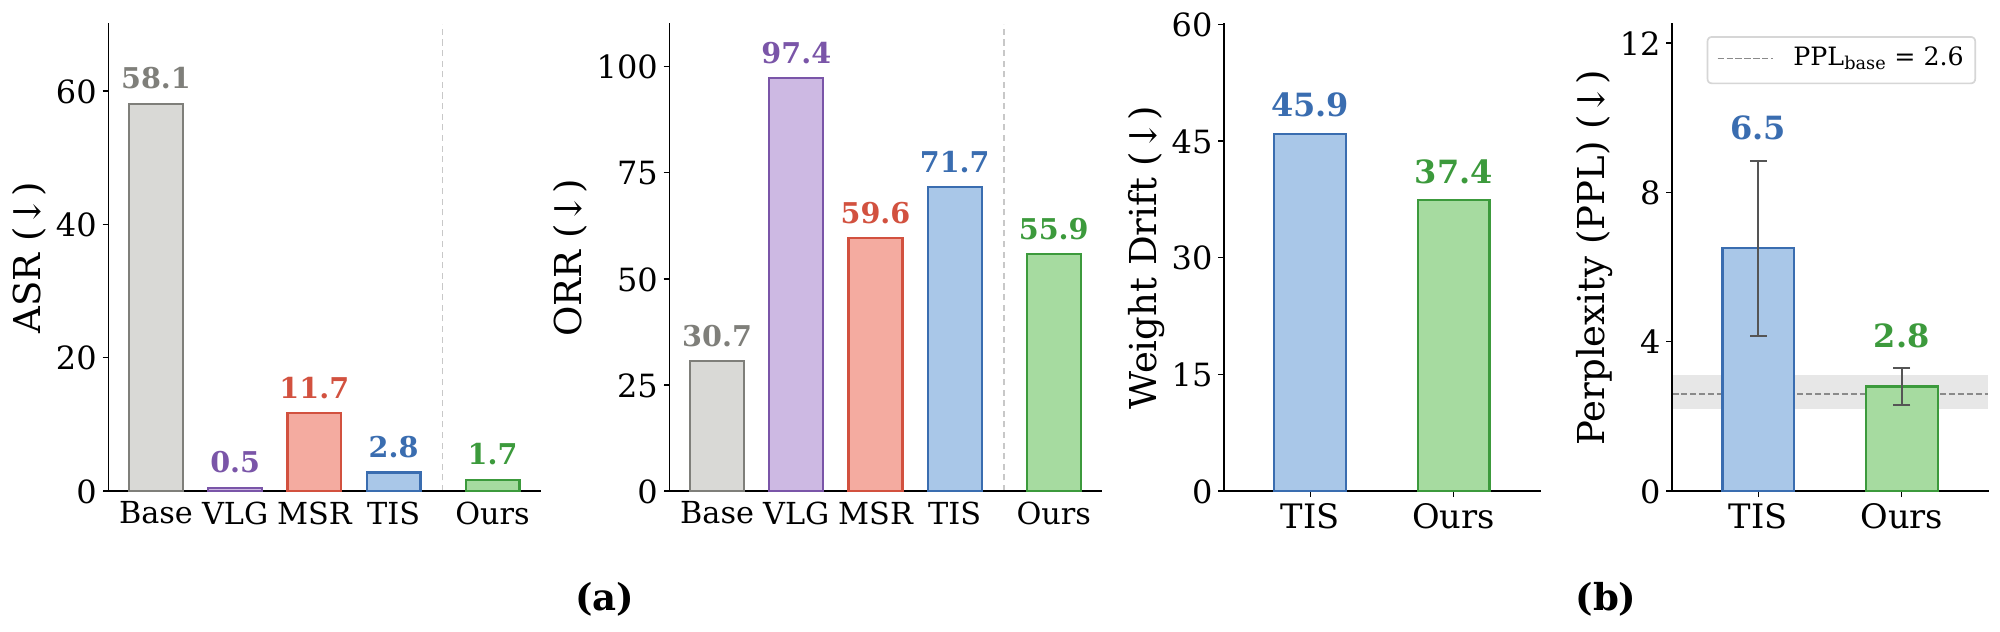
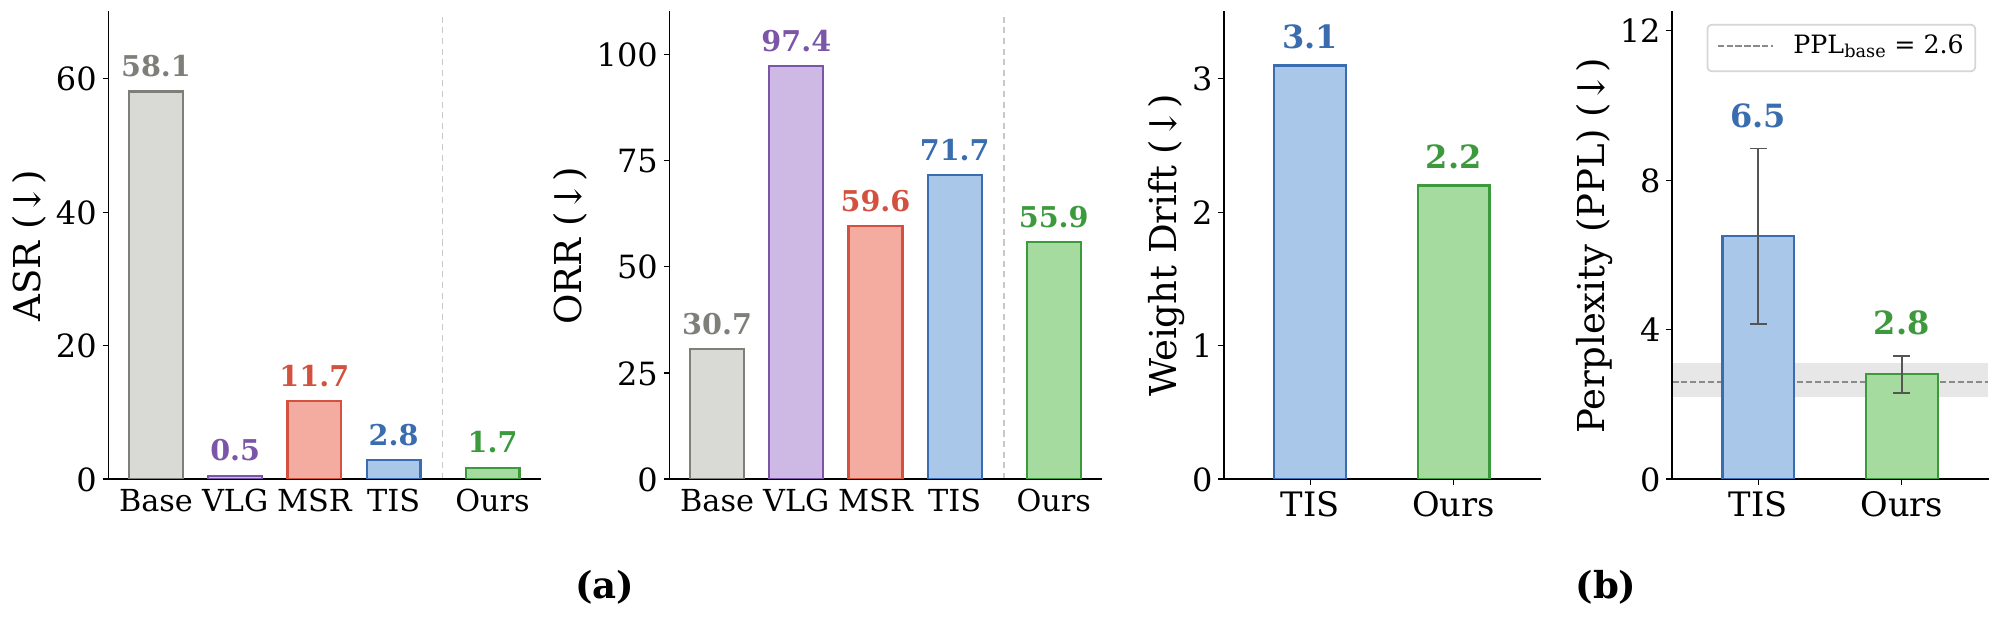
Update Figure 2 with the revised weight-drift values
Use figure2_..._v7 from the updated camera-ready (weight drift: TIS 3.1,
SGSA 2.2) and update the figure's alt text to match.

diff --git a/index.html b/index.html
@@ -310,7 +310,7 @@
         </div>
 
         <figure class="publication-figure">
-          <img src="./static/images/overrefusal-drift.png" alt="Bar charts on LLaVA-CoT. (a) ASR: base 58.1, VLGuard 0.5, MSR-Align 11.7, TIS 2.8, SGSA 1.7. ORR: base 30.7, VLGuard 97.4, MSR-Align 59.6, TIS 71.7, SGSA 55.9. (b) Weight drift from the base model: TIS 45.9, SGSA 37.4. Perplexity of outputs under the base model: TIS 6.5, SGSA 2.8, base 2.6.">
+          <img src="./static/images/overrefusal-drift.png" alt="Bar charts on LLaVA-CoT. (a) ASR: base 58.1, VLGuard 0.5, MSR-Align 11.7, TIS 2.8, SGSA 1.7. ORR: base 30.7, VLGuard 97.4, MSR-Align 59.6, TIS 71.7, SGSA 55.9. (b) Weight drift from the base model: TIS 3.1, SGSA 2.2. Perplexity of outputs under the base model: TIS 6.5, SGSA 2.8, base 2.6.">
           <figcaption class="caption-lead">
             <strong>External supervision costs refusals and drift.</strong> <strong>(a)</strong> VLGuard (VLG), MSR-Align (MSR) and Think-in-Safety (TIS) cut ASR but <span class="bad">inflate ORR</span>. <strong>(b)</strong> TIS also moves further from the base model in <span class="bad">weight space</span>, and its outputs are <span class="bad">far less likely under the base model</span> (perplexity 6.5, against 2.8 for SGSA and 2.6 for the base model's own outputs).
           </figcaption>
